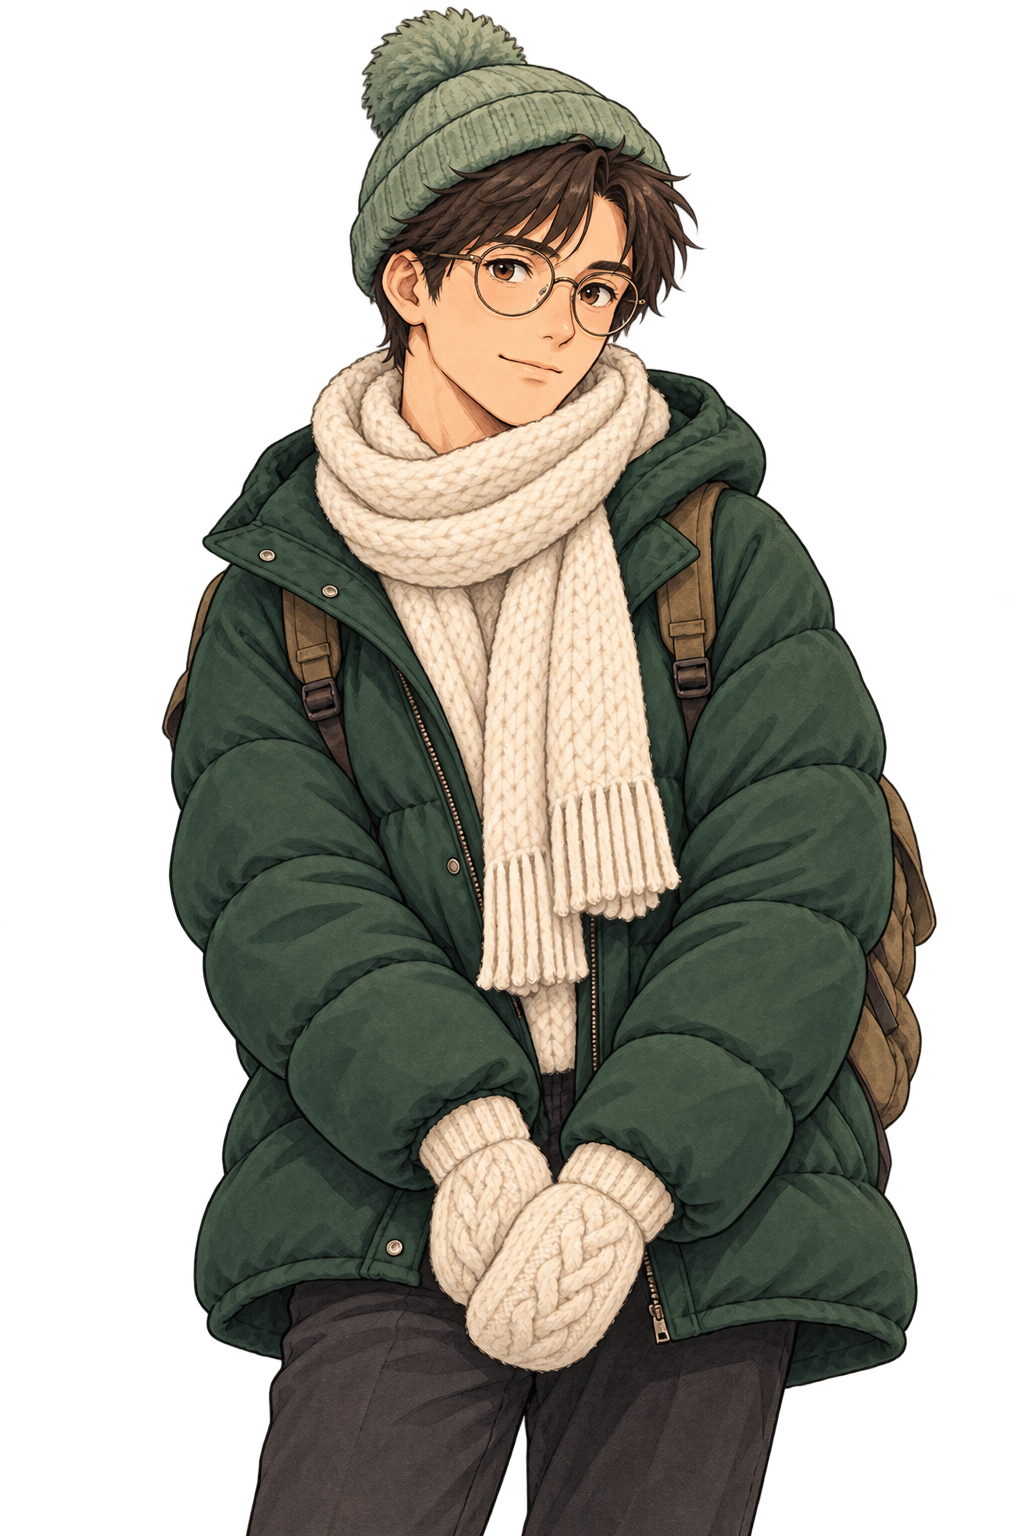
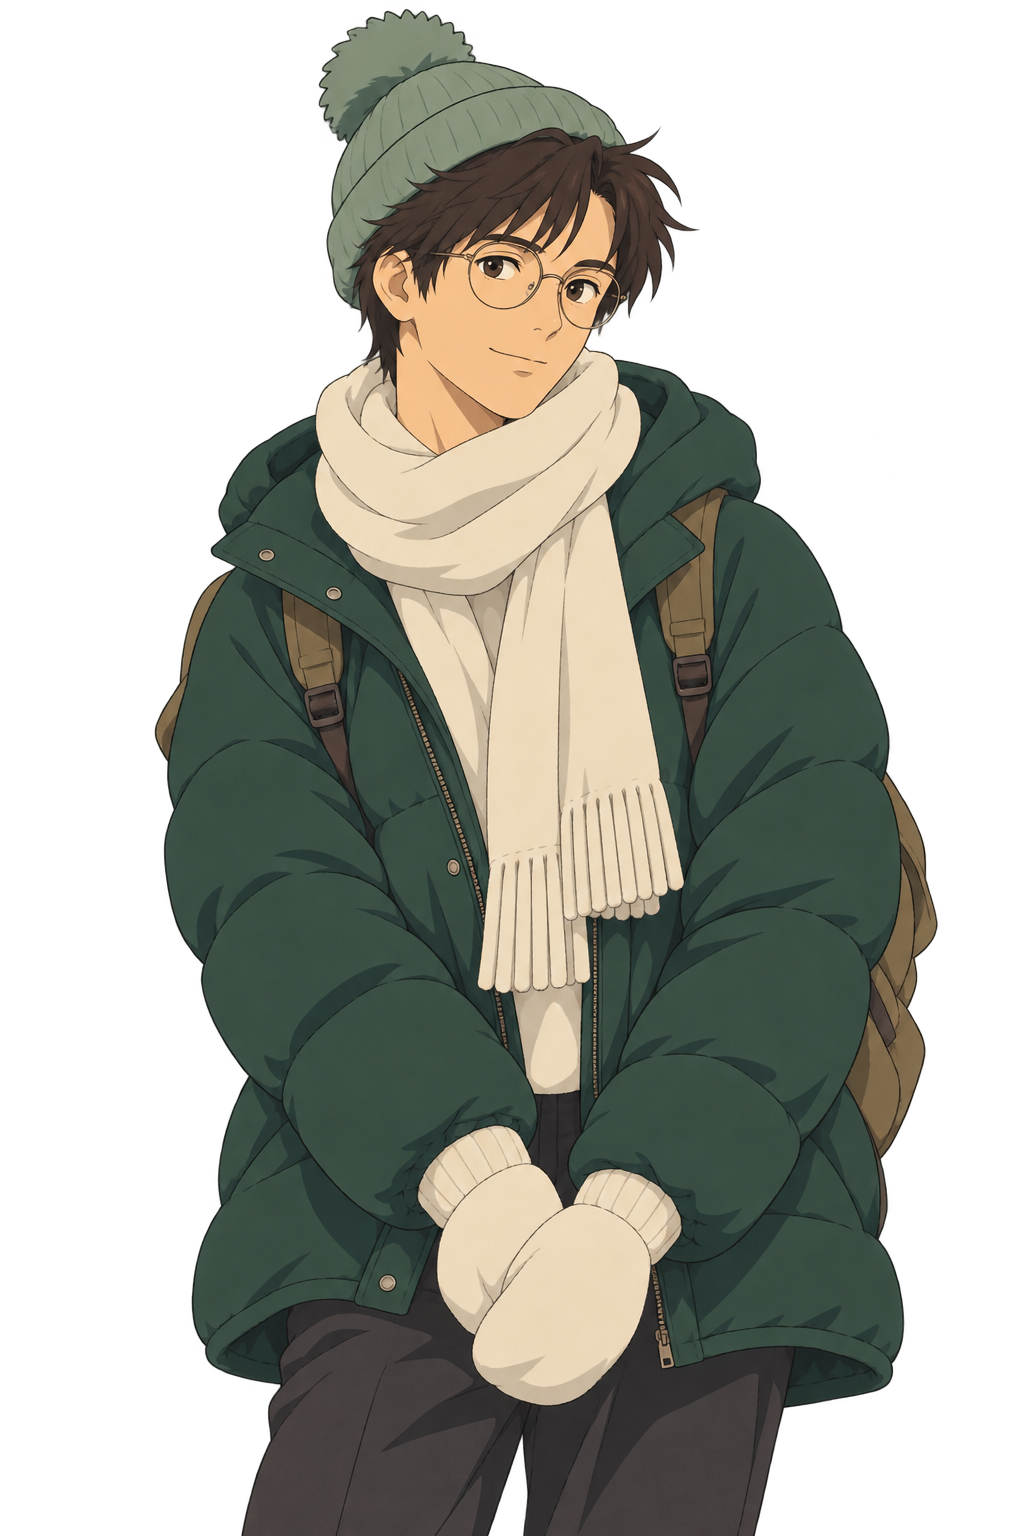
updated character cards, removed from setup page

Changed region(s): [[0.1562, 0.0, 0.9375, 1.0], [0.7812, 0.3438, 0.8438, 0.4375], [0.2188, 0.9688, 0.25, 1.0]]

diff --git a/docs/index.html b/docs/index.html
@@ -9,7 +9,7 @@
   <link rel="stylesheet" href="styles.css?v=travel-background-4">
   <link rel="stylesheet" href="notes.css?v=1">
   <link rel="stylesheet" href="stages.css?v=2">
-  <link rel="stylesheet" href="characters.css?v=1">
+  <link rel="stylesheet" href="characters.css?v=2">
   <script src="config.js" defer></script><script src="memory.js" defer></script><script src="notes.js" defer></script><script src="pipeline.js" defer></script><script src="app.js" defer></script><script src="stages.js" defer></script>
 </head>
 <body data-stage="setup">
@@ -45,8 +45,8 @@
           <h2 id="setup-heading">Let’s get you ready.</h2>
           <div class="setup-field"><label for="speaker-name">Your name</label><input id="speaker-name" type="text" maxlength="40" placeholder="Enter your name" autocomplete="given-name" required></div>
           <fieldset class="initial-agent"><legend>Who would you like to start with?</legend><div class="initial-options">
-            <label class="initial-option"><input type="radio" name="initial-agent" value="sage" checked><img class="setup-portrait" src="assets/sage-character.png" alt="" width="1024" height="1536"><span><strong>Sage</strong><small>Explore destinations and ideas</small></span></label>
-            <label class="initial-option"><input type="radio" name="initial-agent" value="astra"><img class="setup-portrait" src="assets/astra-character.png" alt="" width="1024" height="1536"><span><strong>Astra</strong><small>Build a practical itinerary</small></span></label>
+            <label class="initial-option"><input type="radio" name="initial-agent" value="sage" checked><span><strong>Sage</strong><small>Explore destinations and ideas</small></span></label>
+            <label class="initial-option"><input type="radio" name="initial-agent" value="astra"><span><strong>Astra</strong><small>Build a practical itinerary</small></span></label>
           </div></fieldset>
           <div class="setup-field"><label for="access-code">Demo code</label><input id="access-code" type="password" placeholder="Enter the code from your host" autocomplete="off" spellcheck="false" required></div>
           <button id="start-planning" class="setup-next" type="submit">Start planning <span aria-hidden="true">↗</span></button>

diff --git a/docs/characters.css b/docs/characters.css
@@ -17,3 +17,10 @@
 @media(min-width:851px) and (max-width:1050px){.agent-portrait{width:145px;height:250px;right:-8px}.agent-options .agent-card small{max-width:135px}}
 @media(max-width:600px){.initial-option{grid-template-columns:13px 40px minmax(0,1fr);gap:7px;padding:10px 8px}.setup-portrait{width:40px;height:65px}.initial-option strong{font-size:13px}.initial-option small{font-size:9px}.agent-options .agent-card{min-height:250px;padding:20px}.agent-portrait{width:165px;height:250px}.agent-options .agent-card strong{margin-top:85px}.agent-options .agent-card small{max-width:170px}}
 @media(max-width:370px){.initial-options{grid-template-columns:1fr}.initial-option{grid-template-columns:14px 45px minmax(0,1fr)}.agent-portrait{width:145px}.agent-options .agent-card small{max-width:145px}}
+
+/* Text-only choices in setup; closer, softer character portraits in planning. */
+.initial-option{grid-template-columns:14px minmax(0,1fr);gap:10px;padding:16px 13px}
+#planning-stage .agent-portrait{width:230px;height:345px;top:24px;bottom:auto;right:-25px;object-fit:contain;object-position:center top;filter:brightness(.9) drop-shadow(0 5px 8px #32483712)}
+@media(min-width:851px) and (max-width:1050px){#planning-stage .agent-portrait{width:210px;height:315px;right:-36px;top:28px}}
+@media(max-width:600px){.initial-option{grid-template-columns:13px minmax(0,1fr);padding:13px 10px}#planning-stage .agent-portrait{width:220px;height:330px;top:22px;right:-24px}}
+@media(max-width:370px){.initial-options{grid-template-columns:1fr 1fr}#planning-stage .agent-portrait{width:205px;height:308px;right:-32px;top:23px}.initial-option small{font-size:9px}}
